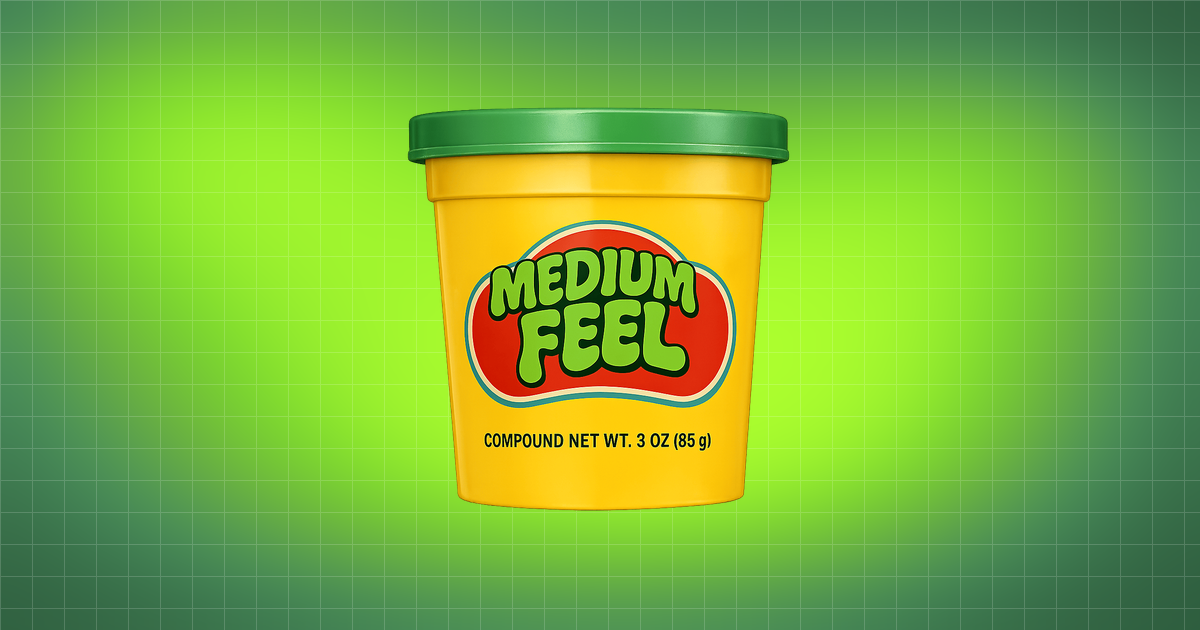
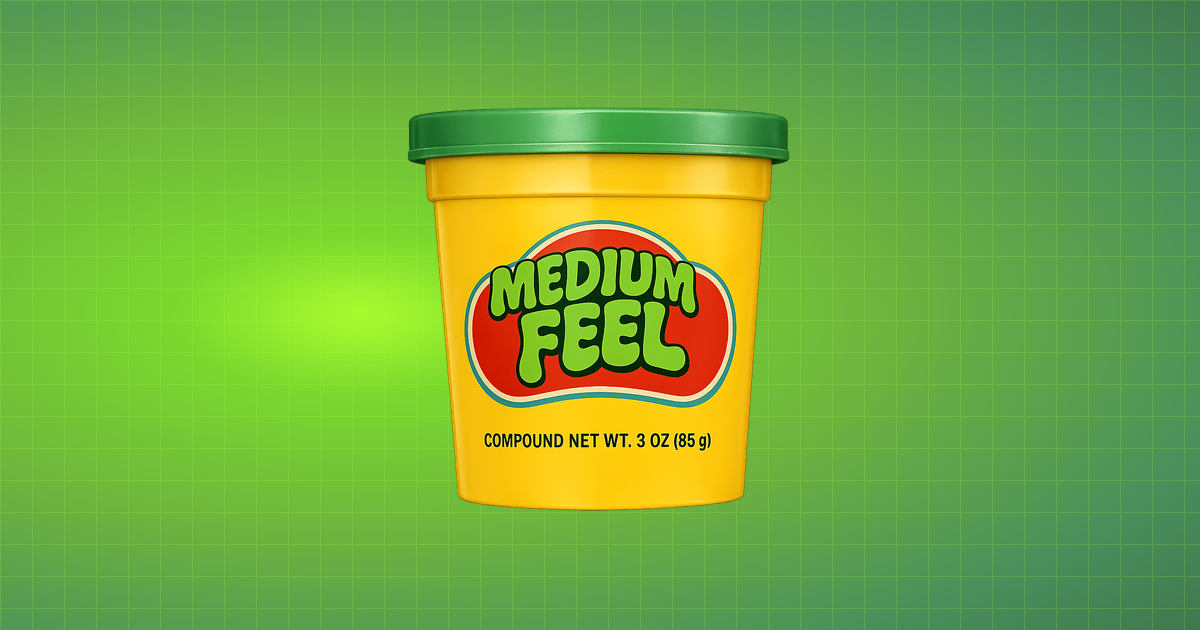
Pull lime back to match CSS radial-gradient from blog hero sections
Directly replicates the CSS elliptical gradient geometry
(ellipse 150% 120% at 30% 50%) instead of custom blobs. Grid lines
now lime-tinted (rgba(173,255,47,0.3)) matching the blog CSS.

diff --git a/tools/generate-og-card.py b/tools/generate-og-card.py
@@ -21,77 +21,68 @@ import numpy as np
 
 WIDTH, HEIGHT = 1200, 630
 
-# Key colors from the green gradient
-COLOR_LIME = np.array([173, 255, 47])       # #adff2f — bright center
-COLOR_SPRING = np.array([124, 217, 46])     # #7cd92e
-COLOR_GREEN = np.array([109, 179, 63])      # #6db33f
-COLOR_MID = np.array([74, 143, 92])         # #4a8f5c
-COLOR_DARK = np.array([45, 90, 61])         # #2d5a3d — edges
-
-
-def lerp_color(c1, c2, t):
-    """Linearly interpolate between two colors."""
-    return (c1 * (1 - t) + c2 * t).astype(np.uint8)
+# Colors matching the CSS radial-gradient stops in blog-design-system.css
+# radial-gradient(ellipse 150% 120% at 30% 50%,
+#   #2d5a3d 0%, #3a6b47 15%, #4a8f5c 25%,
+#   #6db33f 35%, #7cd92e 45%, #adff2f 50%,
+#   #7cd92e 55%, #6db33f 65%, #4a8f5c 75%,
+#   #3a6b47 85%, #2d5a3d 100%)
+GRADIENT_COLORS = [
+    (0.00, np.array([45, 90, 61])),      # #2d5a3d
+    (0.15, np.array([58, 107, 71])),     # #3a6b47
+    (0.25, np.array([74, 143, 92])),     # #4a8f5c
+    (0.35, np.array([109, 179, 63])),    # #6db33f
+    (0.45, np.array([124, 217, 46])),    # #7cd92e
+    (0.50, np.array([173, 255, 47])),    # #adff2f — brightest
+    (0.55, np.array([124, 217, 46])),    # #7cd92e
+    (0.65, np.array([109, 179, 63])),    # #6db33f
+    (0.75, np.array([74, 143, 92])),     # #4a8f5c
+    (0.85, np.array([58, 107, 71])),     # #3a6b47
+    (1.00, np.array([45, 90, 61])),      # #2d5a3d
+]
 
 
 def sample_gradient(t):
-    """Map t (0=bright lime, 1=dark forest) to a color."""
+    """Map t (0.0–1.0) through the CSS gradient stops."""
     t = max(0.0, min(1.0, t))
-    stops = [
-        (0.00, COLOR_LIME),
-        (0.20, COLOR_SPRING),
-        (0.40, COLOR_GREEN),
-        (0.65, COLOR_MID),
-        (1.00, COLOR_DARK),
-    ]
-    for i in range(len(stops) - 1):
-        if stops[i][0] <= t <= stops[i+1][0]:
-            local_t = (t - stops[i][0]) / (stops[i+1][0] - stops[i][0])
-            return lerp_color(stops[i][1], stops[i+1][1], local_t)
-    return COLOR_DARK
+    for i in range(len(GRADIENT_COLORS) - 1):
+        t0, c0 = GRADIENT_COLORS[i]
+        t1, c1 = GRADIENT_COLORS[i + 1]
+        if t0 <= t <= t1:
+            local = (t - t0) / (t1 - t0)
+            return (c0 * (1 - local) + c1 * local).astype(np.uint8)
+    return GRADIENT_COLORS[-1][1]
 
 
 def create_gradient(w, h):
-    """Create an amorphous green gradient using overlapping elliptical blobs
-    blurred together for a soft, organic look — no visible arcs or rings."""
+    """Replicate the CSS elliptical radial-gradient as closely as possible,
+    then blur to keep it amorphous with no visible arcs."""
 
-    # Build a floating-point "brightness" field using multiple elliptical blobs
-    # Each blob: (center_x, center_y, radius_x, radius_y, intensity)
-    blobs = [
-        (0.30, 0.40, 0.55, 0.70, 1.0),    # Large primary glow, left-center
-        (0.72, 0.50, 0.40, 0.55, 0.85),    # Secondary glow, right
-        (0.50, 0.75, 0.50, 0.40, 0.60),    # Bottom accent
-        (0.15, 0.20, 0.30, 0.35, 0.50),    # Top-left subtle
-        (0.85, 0.25, 0.25, 0.30, 0.40),    # Top-right subtle
-    ]
+    # The CSS is: radial-gradient(ellipse 150% 120% at 30% 50%, ...)
+    # "150% 120%" means the ellipse radii are 1.5× width and 1.2× height
+    # "at 30% 50%" is the center point
+    cx, cy = 0.30, 0.50
+    # Radii as fractions of the image (CSS % of element size)
+    rx, ry = 1.50, 1.20
 
     # Create coordinate grids
     xs = np.linspace(0, 1, w)
     ys = np.linspace(0, 1, h)
     xv, yv = np.meshgrid(xs, ys)
 
-    # Accumulate brightness from all blobs
-    brightness = np.zeros((h, w), dtype=np.float64)
-    for cx, cy, rx, ry, intensity in blobs:
-        # Elliptical distance (no circular rings — different x/y radii)
-        dx = (xv - cx) / rx
-        dy = (yv - cy) / ry
-        dist_sq = dx * dx + dy * dy
-        # Smooth gaussian falloff
-        blob_val = intensity * np.exp(-dist_sq * 1.8)
-        brightness += blob_val
+    # Elliptical distance from center — matches CSS radial-gradient geometry
+    dx = (xv - cx) / rx
+    dy = (yv - cy) / ry
+    dist = np.sqrt(dx * dx + dy * dy)
 
-    # Normalize to 0-1 range
-    brightness = brightness / brightness.max()
+    # dist=0 at center (brightest, t=0.50), dist=1 at ellipse edge (t=0 or 1)
+    # The CSS gradient maps center→#adff2f and edge→#2d5a3d
+    # We map dist 0→0.50 (center of gradient) and dist 1→1.0 (edge)
+    # For distances > 1, clamp to edge color
+    t_field = 0.50 + dist * 0.50
+    t_field = np.clip(t_field, 0.0, 1.0)
 
-    # Apply a smooth S-curve for more contrast between bright and dark zones
-    # This pushes the midtones apart — brights get brighter, darks get darker
-    brightness = 0.5 - 0.5 * np.cos(brightness * math.pi)
-
-    # Map brightness → gradient color (0 = bright lime, 1 = dark forest)
-    t_field = 1.0 - brightness  # invert: high brightness = low t = bright lime
-
-    # Build the RGB image from the t_field
+    # Build the RGB image
     pixels = np.zeros((h, w, 3), dtype=np.uint8)
     for y_idx in range(h):
         for x_idx in range(w):
@@ -99,16 +90,17 @@ def create_gradient(w, h):
 
     img = Image.fromarray(pixels, 'RGB').convert('RGBA')
 
-    # Heavy gaussian blur to eliminate any remaining contour lines
-    img = img.filter(ImageFilter.GaussianBlur(radius=30))
+    # Moderate blur to soften the gradient and prevent banding
+    img = img.filter(ImageFilter.GaussianBlur(radius=12))
 
-    # Crosshatch line grid (matches .bg-grid: 1px lines, 32px spacing)
+    # Crosshatch grid — lime-tinted to match the CSS
+    # CSS uses: rgba(173, 255, 47, 0.3) for grid lines
     grid = Image.new('RGBA', (w, h), (0, 0, 0, 0))
     draw = ImageDraw.Draw(grid)
     for yy in range(0, h, 32):
-        draw.line([(0, yy), (w, yy)], fill=(255, 255, 255, 40), width=1)
+        draw.line([(0, yy), (w, yy)], fill=(173, 255, 47, 45), width=1)
     for xx in range(0, w, 32):
-        draw.line([(xx, 0), (xx, h)], fill=(255, 255, 255, 40), width=1)
+        draw.line([(xx, 0), (xx, h)], fill=(173, 255, 47, 45), width=1)
 
     return Image.alpha_composite(img, grid)
 
